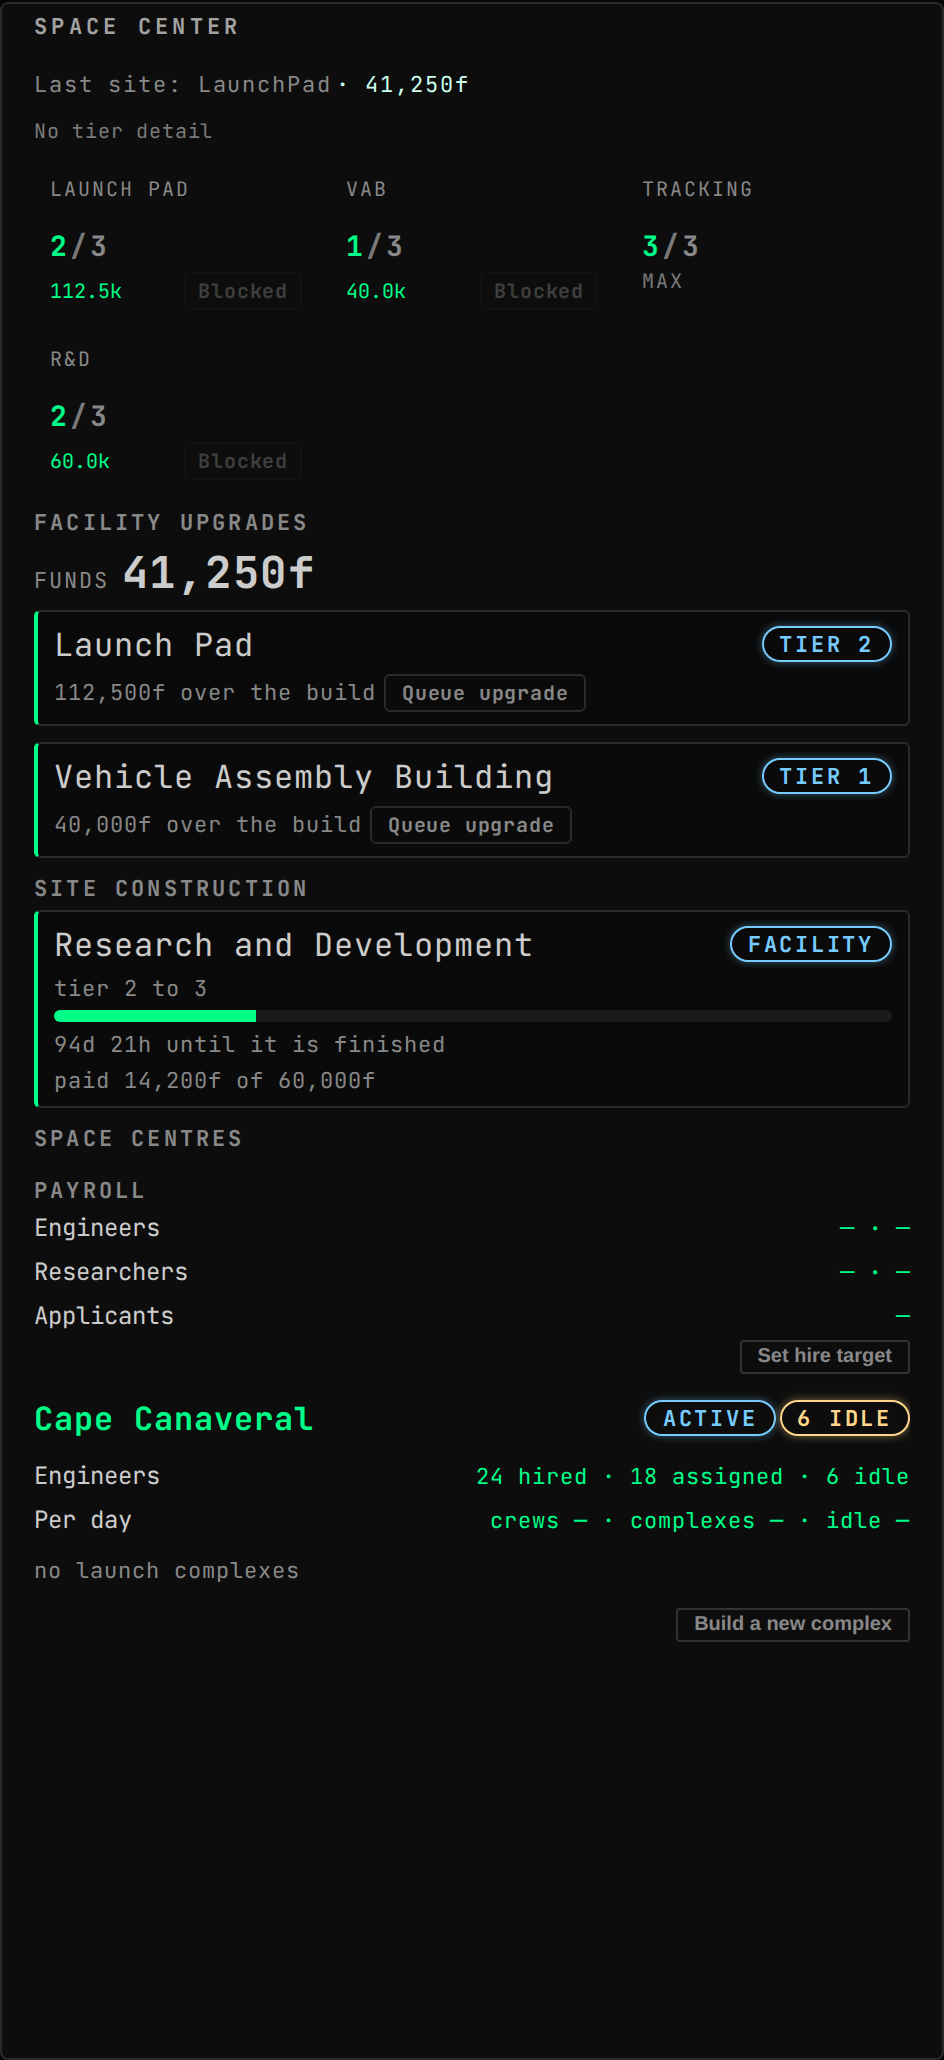
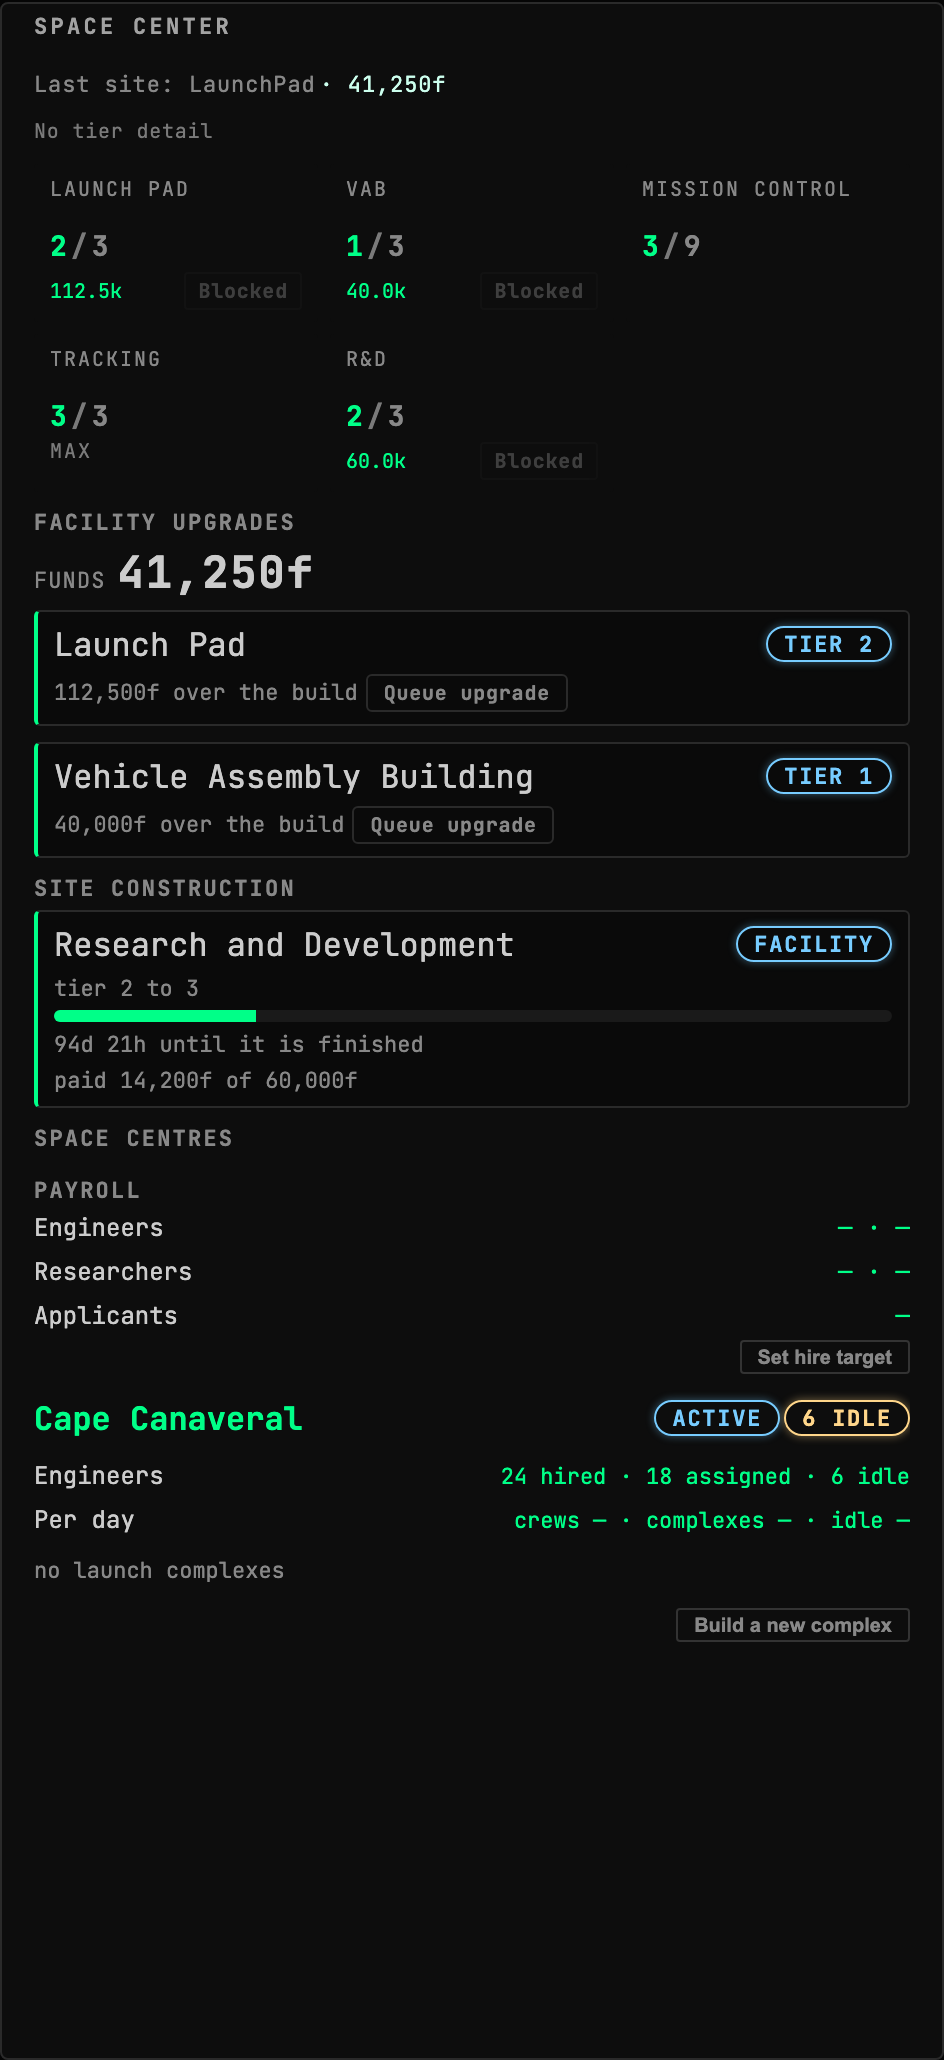
chore: regenerate Uplink pages
Every page carries the contract pair it was built against, so the bump to 15.0
staled all ten. The RP-1 page also picks up its `facility-tiers` contribution
and the in-flight scene, which the generator could not describe while the page
was failing to render at all.

Asset bytes are per-OS, and these were rendered on macOS, so only the three
facility scenes whose picture actually changed are updated here; the rest keep
their committed rasterisation for `uplink-docs.yml` to refresh on Linux.

diff --git a/mod/GonogoRp1Uplink/client/README.md b/mod/GonogoRp1Uplink/client/README.md
@@ -9,7 +9,7 @@ Brings RP-1's career layer to the dashboard: Programs with their objectives, dea
 | --- | --- |
 | Uplink id | `rp1` |
 | Version | `0.0.1` |
-| Built against | contract 14.8, api 1.0.0, ui-kit 0.1.0 |
+| Built against | contract 15.0, api 1.0.0, ui-kit 0.1.0 |
 
 ## Wire
 
@@ -238,7 +238,7 @@ Every craft RP-1 is integrating, holding or could start, across every launch com
 | `rp1-training-courses` | `astronaut-complex.training` | `rp1.available`, `rp1.training`, `rp1.crew` |  | 2 |  |
 | `rp1-training-enrolment` | `astronaut-complex.training` | `rp1.available`, `rp1.trainingCatalogue`, `rp1.crew`, `rp1.crewProgram`, `rp1.training`, `spaceCenter.crewRoster`, `career.status` |  | 3 |  |
 | `rp1-contract-payload` | `contract-manager.sections` | – |  | 1 |  |
-| `rp1-facility-upgrades` | `space-center-status.sections` | `rp1.available`, `career.status`, `rp1.constructions`, `rp1.facilities` | only while `rp1` | 3 |  |
+| `rp1-facility-upgrades` | `space-center-status.sections` | `rp1.available`, `career.status`, `career.facilities`, `rp1.constructions`, `rp1.facilities` | only while `rp1` | 3 |  |
 | `rp1-ksc-complexes` | `space-center-status.sections` | – |  | 12 |  |
 | `rp1-ksc-construction` | `space-center-status.sections` | – |  | 5 |  |
 | `rp1-launch-complex-status` | `launch-director.pad` | – |  | 2 |  |
@@ -271,7 +271,7 @@ Every craft RP-1 is integrating, holding or could start, across every launch com
 
 ![The payload requirement beside the contracts it shapes, with the consequence named before the press: changing either figure withdraws the matching pending offers, once each, which is the half RP-1's own tab never mentions](docs/assets/contract-payload--default.png)
 
-![A career with two tiers it could commit to and one building already in the queue. The balance covers one of the two prices and not the other, and neither is refused: RP-1 bills a construction as it builds, so a short career gets a slower upgrade. That is carried by "over the build" beside each price and by "Commit" on the confirm rather than by a sentence about it. Each badge is the tier the building is AT, the same number the host's grid reads for it, so the two cannot be read as a second opinion; the step is the control's, and it says "Queue upgrade". The host's own stock Upgrade controls read Blocked above, because RP-1 does not sell a tier at all](docs/assets/facility-upgrades-at-centre--default.png)
+![A career with two tiers it could commit to and one building already in the queue. The balance covers one of the two prices and not the other, and neither is refused: RP-1 bills a construction as it builds, so a short career gets a slower upgrade. That is carried by "over the build" beside each price and by "Commit" on the confirm rather than by a sentence about it. Each badge is the tier the building is AT, and it is the same number the grid above reads because it comes from the same place: on an RP-1 save this Uplink feeds the host's grid, so the two cannot be a second opinion. The step is the control's, and it says "Queue upgrade". The grid's own Upgrade controls read Blocked, because the tier they would buy is not for sale under RP-1 at all](docs/assets/facility-upgrades-at-centre--default.png)
 
 ![The same career, in flight, with RP-1's own tier channel answering. "career.status" reads the live buildings KSP instantiates at the space centre only, so the host's grid has nothing; RP-1 denormalises the level KSP persists in the save against its own config in every scene, so the tiers and the prices are here. The absence marker is keyed on whether the facilities area drew ANYTHING, not on this widget's own channel, so it is off screen: an operator flying an RP-1 career used to be told there were no facility tiers directly above a list of their facility tiers](docs/assets/facility-upgrades-away-rp1-answers--default.png)
 
@@ -361,8 +361,11 @@ Every craft RP-1 is integrating, holding or could start, across every launch com
 | --- | --- | --- | --- |
 | `rp1:programs-screen` | `strategies.screens` | – | only while `rp1` |
 | `rp1:crew-core-stats` | `astronaut-complex.readouts` | `rp1.crew`, `rp1.crewProgram` | only while `rp1` |
+| `rp1:facility-tiers` | `space-center-status.facilities` | `rp1.facilities` | only while `rp1` |
 
 ![The tab strip this Uplink's contribution puts on the Administration Building: Programs is the screen it names, the host draws the strip and lists the Programs department under it with its own Activate and Deactivate controls, and the Leaders no screen has claimed stay reachable on Other rather than disappearing. The Program Detail body below the list is a separate augment, photographed fed in its own scenes: a contribution scene carries only the contribution's OWN topics, so the catalogue it reads does not reach it here](docs/assets/programs-screen--default.png)
 
 ![RP-1's two core stats in the Astronaut Complex's own strip: how much of the roster is mid-course, with the courses nobody has started called out, and how many kerbals are about to lose a qualification, toned because that one is a date somebody has to act before](docs/assets/crew-core-stats--default.png)
+
+![The space centre read from orbit. "career.status" comes off the live UpgradeableFacility objects, which KSP puts in the scene only at the space centre, so every tier on it is absent here and the grid used to be empty. RP-1 denormalises the level the save persists against its own tier count and bills the career off it in all four scenes, so this contribution answers wherever the operator is standing and takes the grid over rather than repeating it underneath. Mission Control is one of the five RP-1 prices at a single fund under a "cosmetic only" comment: its tier is a reading and is shown, its price is for a step nothing will take and is withheld. The Upgrade controls stay dark because the stock command needs the building in the scene](docs/assets/facility-tiers-in-flight--default.png)
 

diff --git a/mod/GonogoBreakingGroundUplink/client/README.md b/mod/GonogoBreakingGroundUplink/client/README.md
@@ -9,7 +9,7 @@ Drives Breaking Ground robotic joints and rotors from the console, and reports d
 | --- | --- |
 | Uplink id | `breakingGround` |
 | Version | `0.0.1` |
-| Built against | contract 14.8, api 1.0.0, ui-kit 0.1.0 |
+| Built against | contract 15.0, api 1.0.0, ui-kit 0.1.0 |
 
 ## Widgets
 

diff --git a/mod/GonogoRealAntennasUplink/client/README.md b/mod/GonogoRealAntennasUplink/client/README.md
@@ -9,7 +9,7 @@ Elects RealAntennas as the comms backend when it is installed, so the comms read
 | --- | --- |
 | Uplink id | `realantennas` |
 | Version | `0.0.1` |
-| Built against | contract 14.8, api 1.0.0, ui-kit 0.1.0 |
+| Built against | contract 15.0, api 1.0.0, ui-kit 0.1.0 |
 
 ## Wire
 

diff --git a/mod/GonogoKerbalismUplink/client/README.md b/mod/GonogoKerbalismUplink/client/README.md
@@ -9,7 +9,7 @@ Kerbalism life support as one ledger: every profile resource as a meter with the
 | --- | --- |
 | Uplink id | `kerbalism` |
 | Version | `0.0.1` |
-| Built against | contract 14.8, api 1.0.0, ui-kit 0.1.0 |
+| Built against | contract 15.0, api 1.0.0, ui-kit 0.1.0 |
 
 ## Wire
 

diff --git a/mod/GonogoPrincipiaUplink/client/README.md b/mod/GonogoPrincipiaUplink/client/README.md
@@ -9,7 +9,7 @@ Publishes Principia's n-body state: trajectory arcs, the flight plan and its bur
 | --- | --- |
 | Uplink id | `principia` |
 | Version | `0.0.1` |
-| Built against | contract 14.8, api 1.0.0, ui-kit 0.1.0 |
+| Built against | contract 15.0, api 1.0.0, ui-kit 0.1.0 |
 
 ## Wire
 

diff --git a/mod/GonogoRealFuelsUplink/client/README.md b/mod/GonogoRealFuelsUplink/client/README.md
@@ -9,7 +9,7 @@ Answers the two questions a Realism Overhaul burn turns on: can this engine be l
 | --- | --- |
 | Uplink id | `realfuels` |
 | Version | `0.0.1` |
-| Built against | contract 14.8, api 1.0.0, ui-kit 0.1.0 |
+| Built against | contract 15.0, api 1.0.0, ui-kit 0.1.0 |
 
 ## Wire
 

diff --git a/mod/GonogoAvionicsUplink/client/README.md b/mod/GonogoAvionicsUplink/client/README.md
@@ -9,7 +9,7 @@ Answers the question an RP-1 launch turns on: is the vessel within the active av
 | --- | --- |
 | Uplink id | `avionics` |
 | Version | `0.0.1` |
-| Built against | contract 14.8, api 1.0.0, ui-kit 0.1.0 |
+| Built against | contract 15.0, api 1.0.0, ui-kit 0.1.0 |
 
 ## Wire
 

diff --git a/mod/GonogoMechJebUplink/client/README.md b/mod/GonogoMechJebUplink/client/README.md
@@ -9,7 +9,7 @@ Flies the vessel from the console: engage MechJeb's ascent autopilot, execute th
 | --- | --- |
 | Uplink id | `mechjeb` |
 | Version | `0.0.1` |
-| Built against | contract 14.8, api 1.0.0, ui-kit 0.1.0 |
+| Built against | contract 15.0, api 1.0.0, ui-kit 0.1.0 |
 
 ## Wire
 

diff --git a/mod/GonogoFerramAerospaceResearchUplink/client/README.md b/mod/GonogoFerramAerospaceResearchUplink/client/README.md
@@ -9,7 +9,7 @@ Puts a full-fidelity aerodynamic model's own numbers on the flight board: angle 
 | --- | --- |
 | Uplink id | `aero` |
 | Version | `0.0.1` |
-| Built against | contract 14.8, api 1.0.0, ui-kit 0.1.0 |
+| Built against | contract 15.0, api 1.0.0, ui-kit 0.1.0 |
 
 ## Wire
 

diff --git a/mod/GonogoKosUplink/client/README.md b/mod/GonogoKosUplink/client/README.md
@@ -9,7 +9,7 @@ Puts a kOS CPU's real terminal on the dashboard, streamed in process with no pro
 | --- | --- |
 | Uplink id | `kos` |
 | Version | `0.0.1` |
-| Built against | contract 14.8, api 1.0.0, ui-kit 0.1.0 |
+| Built against | contract 15.0, api 1.0.0, ui-kit 0.1.0 |
 
 ## Wire
 
